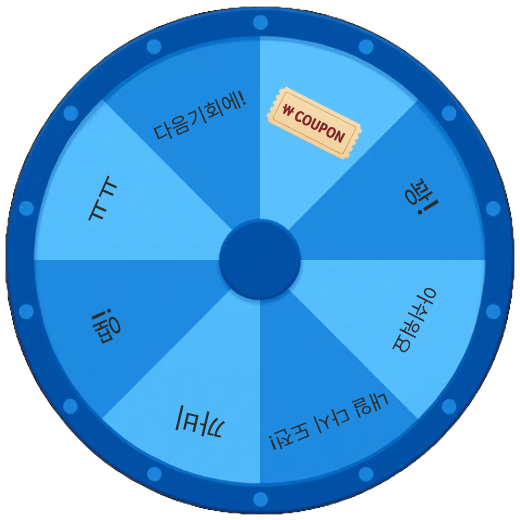
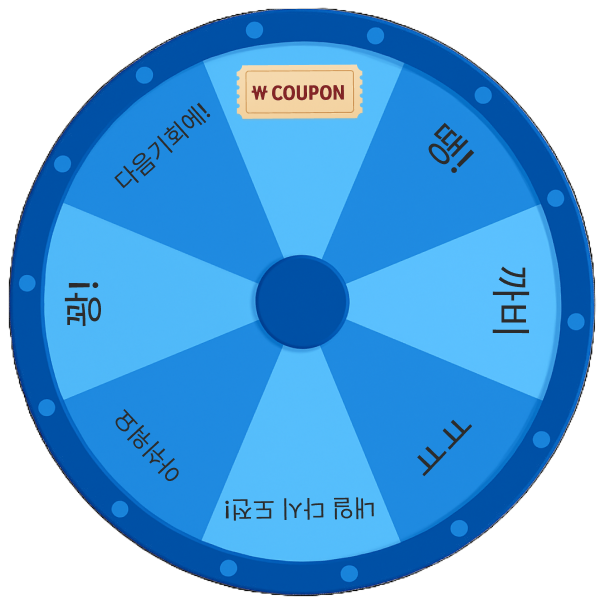
feat: 각도 테스트

diff --git a/src/pages/EventPage/EventPage.jsx b/src/pages/EventPage/EventPage.jsx
@@ -5,24 +5,42 @@ import RouletteWheel from './components/RouletteWheel';
 import StartButton from './components/StartButton';
 import { fetchRouletteEventStatus, participateInRoulette } from '@/apis/rouletteApi';
 
-const isTestMode = true; // 테스트 모드: true 시 canParticipate 무시
+const isTestMode = true; // 테스트 모드 (true면 무조건 당첨)
 
-// 꽝(미당첨) 위치 각도 랜덤 반환 (당첨 구간 제외한 6개 구간 중 랜덤)
-function getRandomNonWinAngle() {
-  // 당첨 영역(270~315도) 제외한 나머지 6개 구간
-  const nonWinRanges = [
-    [0, 270], // 0~270도 (3시~12시)
-    [315, 360], // 315~360도
-  ];
-  // 0~270도 구간 내에서 랜덤 선택
-  const rangeIdx = Math.floor(Math.random() * nonWinRanges.length);
-  const range = nonWinRanges[rangeIdx];
-  return Math.floor(Math.random() * (range[1] - range[0]) + range[0]);
+// 3시 기준 → 12시 기준으로 보정
+function toTop0Degree(angle) {
+  let corrected = angle - 22.5;
+  if (corrected < 0) corrected += 360;
+  return corrected;
 }
 
-// 당첨 구간(270~315도) 내 랜덤 각도 반환 (12시 ~ 1시 방향)
-function getRandomWinAngle() {
-  return 270 + Math.floor(Math.random() * 45); // 270~315도 사이 랜덤
+// 당첨 각도 맵 (3시 기준)
+const prizeAngleMap = {
+  PRIZE1: 22.5,
+  PRIZE2: 67.5,
+  PRIZE3: 112.5,
+  PRIZE4: 157.5,
+  PRIZE5: 202.5,
+  PRIZE6: 247.5,
+  PRIZE7: 292.5,
+  PRIZE8: 337.5,
+};
+
+// 당첨 각도를 피해 랜덤한 꽝 각도 선택
+function getRandomNonWinAngle() {
+  const prizeAngles = Object.values(prizeAngleMap);
+  const allAngles = [];
+
+  for (let angle = 0; angle < 360; angle++) {
+    const isPrizeArea = prizeAngles.some(
+      (prize) => Math.abs((angle - prize + 360) % 360) <= 22.5
+    );
+    if (!isPrizeArea) {
+      allAngles.push(angle);
+    }
+  }
+
+  return allAngles[Math.floor(Math.random() * allAngles.length)];
 }
 
 const EventPage = () => {
@@ -31,16 +49,12 @@ const EventPage = () => {
   const [result, setResult] = useState(null);
   const [error, setError] = useState(null);
   const [loading, setLoading] = useState(true);
-
-  // 룰렛 회전 각도 상태
   const [rotation, setRotation] = useState(0);
 
   const getEventData = async () => {
     setError(null);
     try {
       const response = await fetchRouletteEventStatus();
-      console.log('이벤트 정보:', response);
-
       if (response.resultCode >= 200 && response.resultCode < 300) {
         setEventInfo(response.data);
       } else {
@@ -49,7 +63,6 @@ const EventPage = () => {
         alert(`이벤트 조회 실패: ${msg}`);
       }
     } catch (err) {
-      console.error('이벤트 정보 요청 에러:', err);
       setError('이벤트 정보를 불러오는 중 에러가 발생했습니다.');
       alert('이벤트 정보를 불러오는 중 에러가 발생했습니다.');
     } finally {
@@ -76,19 +89,28 @@ const EventPage = () => {
     setError(null);
 
     try {
-      const response = await participateInRoulette(eventInfo.eventId);
-      console.log('룰렛 참여 응답:', response);
+      console.log('startSpin 호출 - eventId:', eventInfo?.eventId);
 
-      const baseRotation = 360 * 5; // 기본 5바퀴
-      let prizeAngle = 0;
-      let participationData = null;
+      const response = isTestMode
+        ? {
+            resultCode: 200,
+            data: { isWinner: false, prizeCode: 'PRIZE1', message: '테스트 당첨!' },
+          }
+        : await participateInRoulette(eventInfo.eventId);
+
+      console.log('참여 API 응답:', response);
+
+      let prizeAngle;
+      let participationData;
 
       if (response.resultCode >= 200 && response.resultCode < 300) {
         participationData = response.data;
 
-        prizeAngle = participationData.isWinner
-          ? getRandomWinAngle() // 당첨이면 270~315도 (12시 ~ 1시)
-          : getRandomNonWinAngle(); // 꽝이면 나머지 구간 랜덤
+        if (participationData.isWinner) {
+          prizeAngle = prizeAngleMap[participationData.prizeCode] ?? 22.5;
+        } else {
+          prizeAngle = getRandomNonWinAngle();
+        }
       } else {
         participationData = {
           isWinner: false,
@@ -97,12 +119,16 @@ const EventPage = () => {
         prizeAngle = getRandomNonWinAngle();
       }
 
-      setRotation((prev) => prev + baseRotation + prizeAngle);
+      const correctedAngle = toTop0Degree(prizeAngle);
+      const baseRotation = 360 * 5;
+      const finalRotation = baseRotation + correctedAngle;
+
+      setRotation((prev) => prev + finalRotation);
 
       setTimeout(() => {
         alert(
           participationData.isWinner
-            ? '🎉 축하합니다! 당첨되셨습니다!'
+            ? `🎉 축하합니다! 당첨되셨습니다! (${participationData.message})`
             : participationData.message || '아쉽지만 당첨되지 않았습니다.'
         );
         setResult(participationData);
@@ -110,10 +136,14 @@ const EventPage = () => {
         setIsSpinning(false);
       }, 5000);
     } catch (err) {
-      console.error('룰렛 참여 에러:', err);
+      console.error('룰렛 참여 에러:', err.response?.data || err.message || err);
+
+      const rawAngle = getRandomNonWinAngle();
+      const correctedAngle = toTop0Degree(rawAngle);
       const baseRotation = 360 * 5;
-      const prizeAngle = getRandomNonWinAngle();
-      setRotation((prev) => prev + baseRotation + prizeAngle);
+      const finalRotation = baseRotation + correctedAngle;
+
+      setRotation((prev) => prev + finalRotation);
 
       setTimeout(() => {
         alert('참여 중 오류가 발생했습니다.');
@@ -127,11 +157,10 @@ const EventPage = () => {
   };
 
   return (
-    <div className="relative overflow-hidden">
+    <div className="relative">
       <EventHeader />
       <RouletteEventExtras />
 
-      {/* 룰렛 바퀴에 rotation 각도 전달 */}
       <RouletteWheel isSpinning={isSpinning} rotation={rotation} />
 
       {loading ? (
@@ -146,6 +175,54 @@ const EventPage = () => {
       ) : (
         <>
           <StartButton onClick={startSpin} disabled={isSpinning} />
+
+          {result && (
+            <div className="mt-6 p-4 bg-gray-100 rounded-md text-center border border-gray-200">
+              <p className="text-xl font-semibold text-gray-800">
+                {result.isWinner
+                  ? `🎉 축하합니다! 당첨되셨습니다!`
+                  : result.message || '아쉽지만 당첨되지 않았습니다.'}
+              </p>
+            </div>
+          )}
+
+          <div className="mt-8 p-4 bg-gray-50 rounded-md text-sm text-gray-700 border border-gray-200">
+            <p className="mb-1">
+              <strong>현재 당첨자 수:</strong> {eventInfo?.currentWinners ?? '-'} / {eventInfo?.maxWinners ?? '-'}
+            </p>
+            <p className="mb-1">
+              <strong>참여 가능 여부:</strong> {eventInfo?.canParticipate ? '참여 가능' : '참여 불가'}
+            </p>
+            <p className="mb-1">
+              <strong>이벤트 활성화:</strong> {eventInfo?.isActive ? '활성화됨' : '비활성화됨'}
+            </p>
+            <p className="mb-1">
+              <strong>이미 참여:</strong> {eventInfo?.alreadyParticipated ? '예' : '아니오'}
+            </p>
+            <p>
+              <strong>이벤트 기간:</strong>{' '}
+              {eventInfo?.startDate
+                ? new Date(eventInfo.startDate).toLocaleString('ko-KR', {
+                    year: 'numeric',
+                    month: '2-digit',
+                    day: '2-digit',
+                    hour: '2-digit',
+                    minute: '2-digit',
+                  })
+                : '-'}{' '}
+              ~{' '}
+              {eventInfo?.endDate
+                ? new Date(eventInfo.endDate).toLocaleString('ko-KR', {
+                    year: 'numeric',
+                    month: '2-digit',
+                    day: '2-digit',
+                    hour: '2-digit',
+                    minute: '2-digit',
+                  })
+                : '-'}
+            </p>
+            <p className="mt-2 text-xs text-gray-500">당첨 확률: {eventInfo?.winProbability ?? '-'}%</p>
+          </div>
         </>
       )}
     </div>
